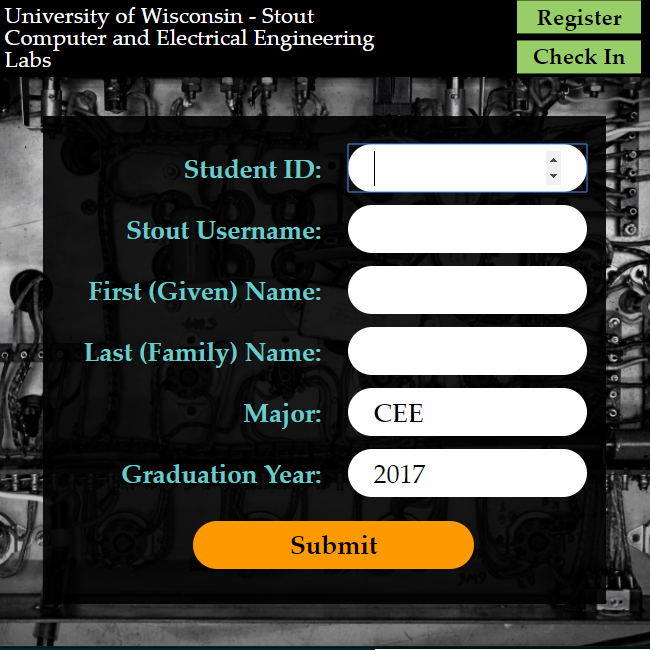
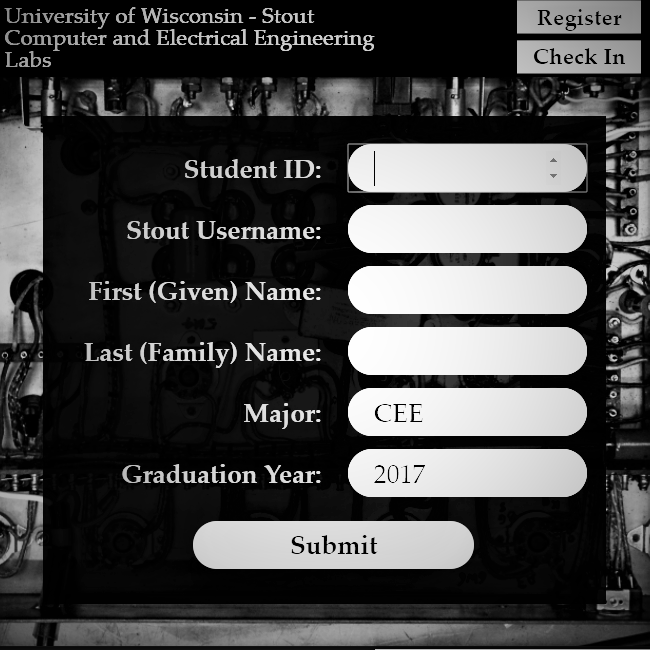
Changed the header CSS

diff --git a/res/css/style.css b/res/css/style.css
@@ -50,13 +50,17 @@ html {
 }
 
 header {
+	position:         -webkit-sticky;
+	position:         sticky;
+    z-index:          99;
+	top:              0;
 	display:          flex;
 	justify-content:  space-between;
 	align-items:      flex-end;
 	flex-flow:        row wrap;
 	font-size:        1.25em;
 	color:            #C41E3A;
-	background:       #000000;
+	background:       #F7F7F7;
 } header p, header a {
 	display:          inline-block;
 	padding:          0;
@@ -132,4 +136,4 @@ footer {
 } footer a:hover {
 	color:            #C41E3A;
 	text-decoration:  none;
-}
+}*/

diff --git a/portfolio.html b/portfolio.html
@@ -34,8 +34,8 @@ function openNav() {
 		</nav>
 	</section>
 	<header>
-		<p><span id="site_title">Michelle Miller</span> <span id="site_tagline">{Software Engineer}</span></p>
-		<a id="menu_open_button" onclick="openNav()" href="javascript:void(0)">&#9776; Menu</a>
+		<p id="site_title">Michelle Miller</p>
+		<a id="menu_open_button" onclick="openNav()" href="javascript:void(0)">&#9776;</a>
 	</header>
 	<main>
 	<section id="page_description">
